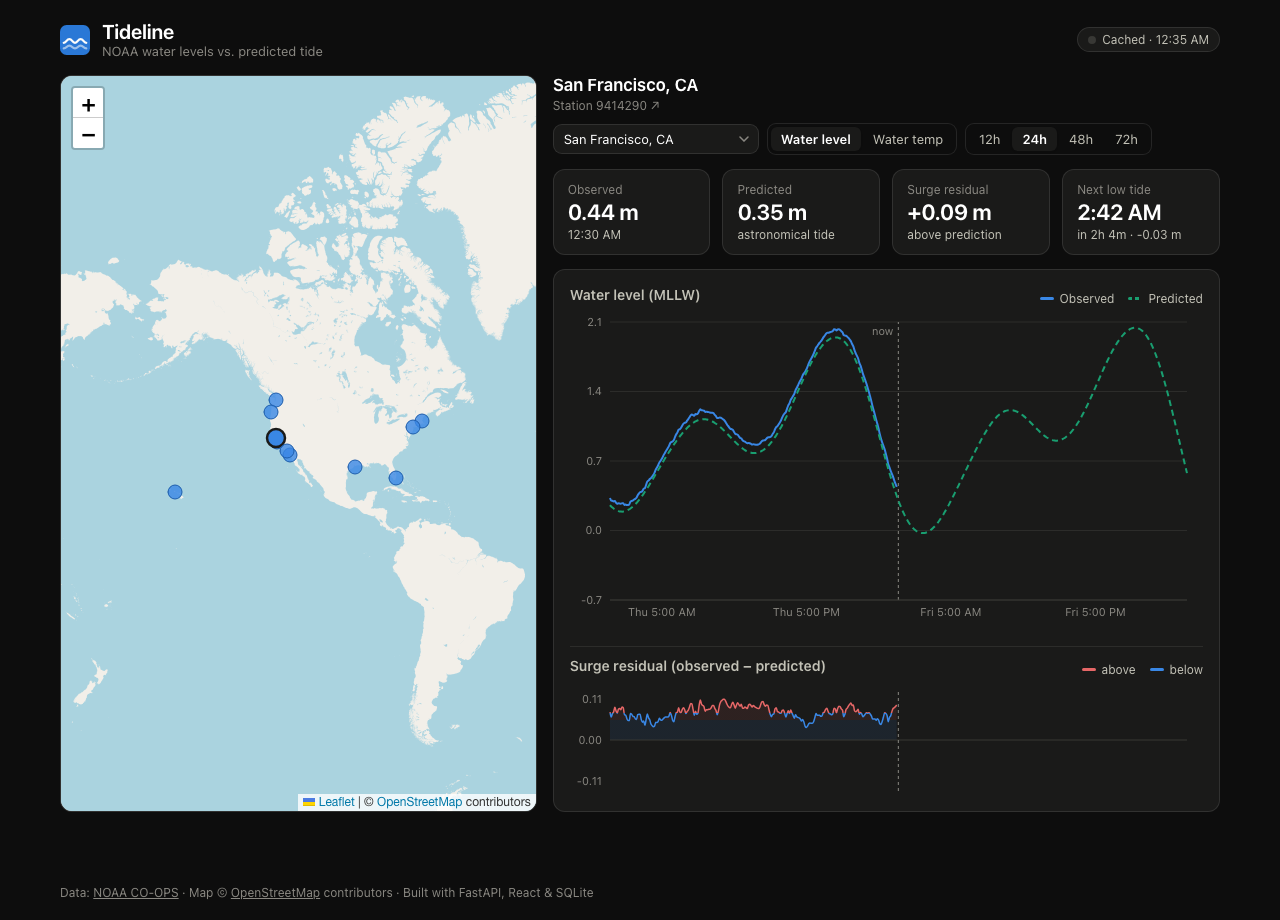
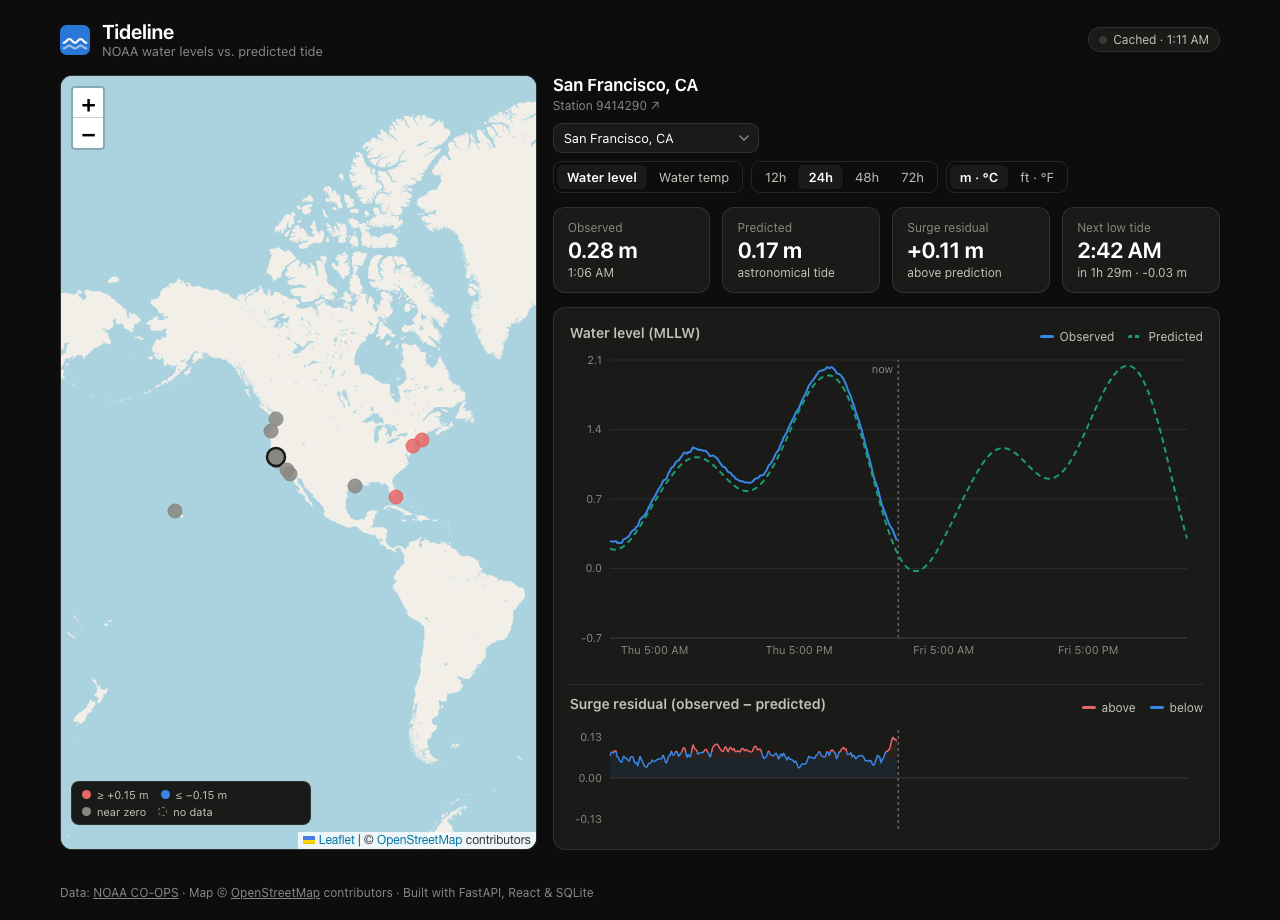
docs: document surge overview, units toggle; refresh screenshots

diff --git a/README.md b/README.md
@@ -17,6 +17,7 @@ Tideline pulls real-time coastal data from the [NOAA CO-OPS API](https://api.tid
 
 ## Features
 
+- **National surge overview** — map markers turn red/blue when a station runs beyond ±0.15 m of its predicted tide, so one glance shows which coast is anomalous right now
 - **Interactive station map** — 13 NOAA stations across both coasts, Gulf, and Hawaii; click a marker or use the dropdown (the map pans to off-screen picks)
 - **Observed vs. predicted overlay chart** with a "now" marker, so you can see the upcoming tide as well as the last few days
 - **Surge residual chart** — a diverging mini-chart of observed − predicted with a crosshair synced to the main chart; a rising residual is what a storm looks like
@@ -24,7 +25,8 @@ Tideline pulls real-time coastal data from the [NOAA CO-OPS API](https://api.tid
 - **Shareable URLs** — station, product, and time range round-trip through the query string
 - **Read-through cache with graceful degradation** — repeated requests serve from SQLite; if NOAA is unreachable the API returns the last known data flagged `stale`, and the UI offers a retry
 - Stations without a sensor for a product (SF has no thermometer!) get a friendly empty state, not an error
-- Water temperature as a second data product, 5-minute auto-refresh, responsive layout, automatic dark mode
+- **Metric/US units toggle** (m·°C / ft·°F) — data stays metric internally; conversion happens only at the display boundary
+- Water temperature as a second data product, 5-minute auto-refresh, responsive layout, automatic dark mode, loading skeletons, split vendor chunks
 
 ## Architecture
 
@@ -62,6 +64,7 @@ Interactive docs at `/docs` (Swagger UI, generated by FastAPI).
 | Endpoint | Description |
 |---|---|
 | `GET /api/stations` | All stations with coordinates |
+| `GET /api/overview` | Latest observed level, prediction, and surge for every station (powers the map colors); stale stations refresh from NOAA in parallel threads |
 | `GET /api/stations/{id}/readings?product=water_level&hours=24` | Observed readings for the trailing window (1–72 h); `product` may also be `water_temperature` |
 | `GET /api/stations/{id}/predictions?hours=24` | Astronomical tide predictions from `hours` ago to `hours` ahead (1–48 h) |
 | `GET /api/healthz` | Health check |
@@ -100,8 +103,8 @@ npm run dev                          # http://localhost:5173, proxies /api to th
 ### Tests
 
 ```bash
-cd backend && pytest -v      # 18 tests
-cd frontend && npm test      # 19 tests
+cd backend && pytest -v      # 21 tests
+cd frontend && npm test      # 21 tests
 ```
 
 The backend suite covers the full cache lifecycle (cold → warm → expired → stale fallback), the full-window refresh invariant, upsert de-duplication, NOAA response parsing (including sensor gaps and no-sensor stations), gzip, and request validation — NOAA is mocked with `respx`, so tests run offline in ~0.3 s. The frontend suite covers the tide math (series merging, surge residual, next-extreme detection, axis ticks) and URL state round-tripping.